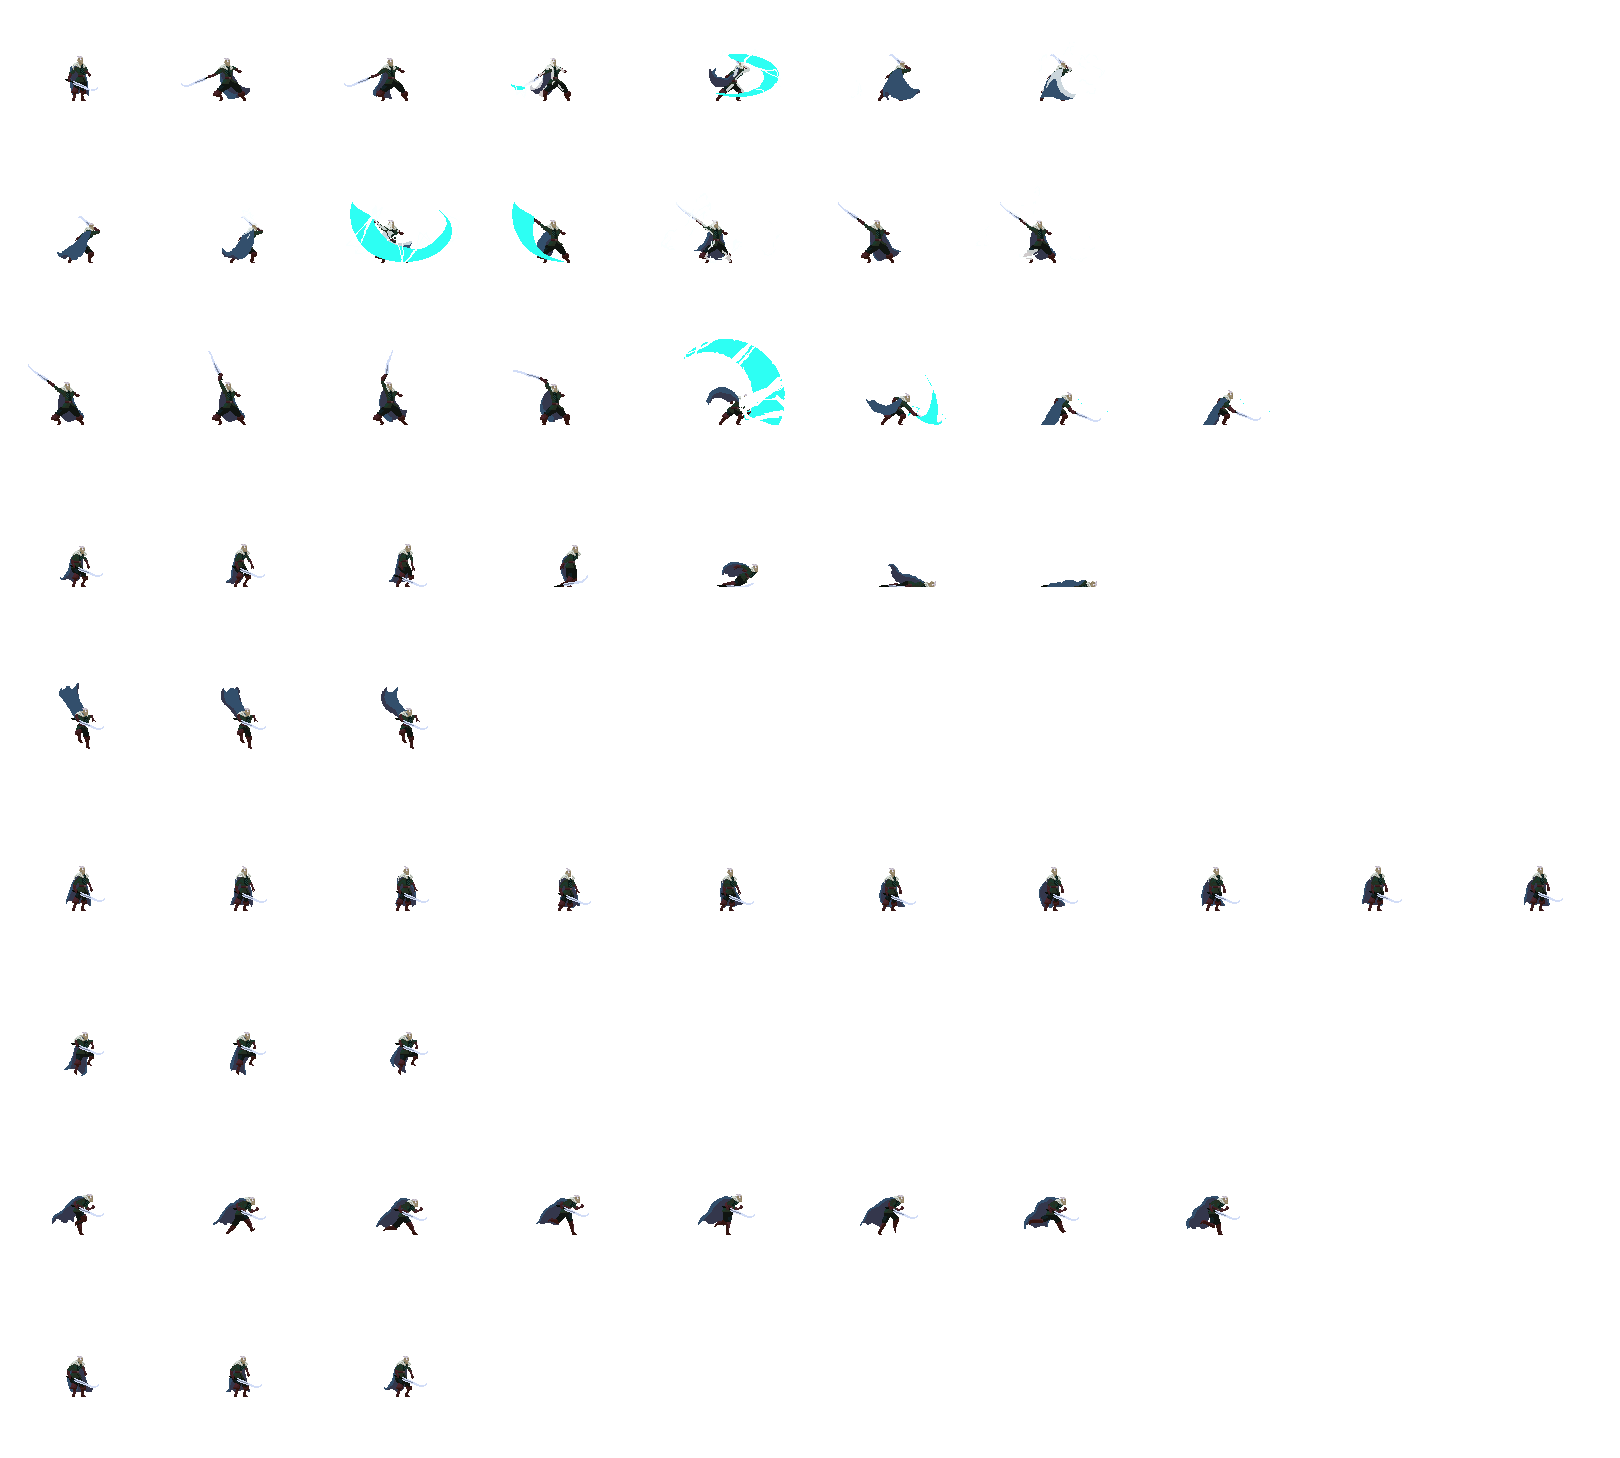
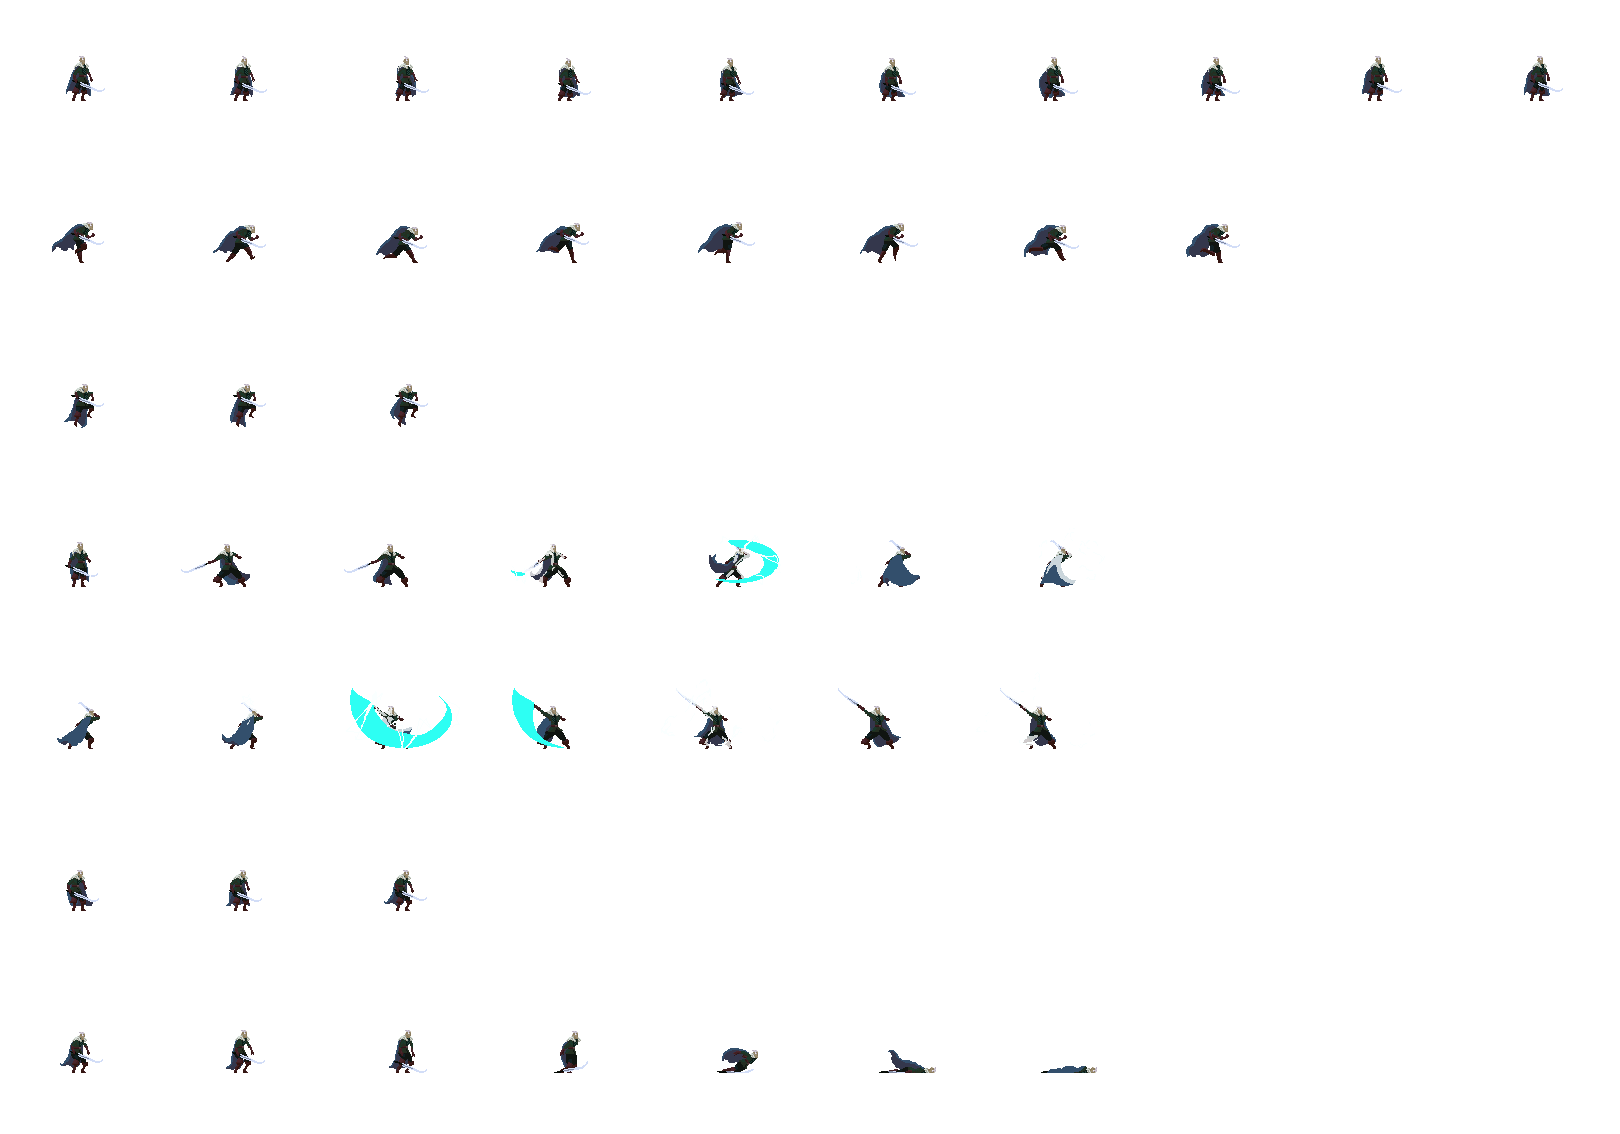
Add files via upload

diff --git a/main.py b/main.py
@@ -25,7 +25,7 @@ WARRIOR_OFFSET = [65,52]
 WARRIOR_DATA = [WARRIOR_SIZE, WARRIOR_SCALE, WARRIOR_OFFSET]
 WIZARD_SIZE = 150
 WIZARD_SCALE = 5.5
-WIZARD_OFFSET = [60, 50]
+WIZARD_OFFSET = [100, 100]
 WIZARD_DATA = [WIZARD_SIZE, WIZARD_SCALE, WIZARD_OFFSET]
 
 # load background image
@@ -38,10 +38,10 @@ martial2_sheets = pygame.image.load("assets/Fighters/Martial Hero 2/MartialHero2
 martial3_sheets = pygame.image.load("assets/Fighters/Martial Hero 3/MartialHero3.png").convert_alpha()
 
 # define number of steps in each animation
-WIZARD_ANIMATION_STEPS = [8, 5, 8, 8, 4]
-WARRIOR_ANIMATION_STEPS = [7, 7, 8, 7, 3, 10, 3, 8, 3]
-MARTIAL2_ANIMATION_STEPS = [4, 4, 7, 2, 4, 2, 8, 3]
-MARTIAL3_ANIMATION_STEPS = [7, 6, 9, 11, 3, 3, 10, 8, 3]
+WIZARD_ANIMATION_STEPS = [8, 8, 2, 8, 8, 3, 7]
+WARRIOR_ANIMATION_STEPS = [10, 8, 3, 7, 7, 3, 7]
+MARTIAL2_ANIMATION_STEPS = [4, 8, 2, 4, 4, 3, 7]
+MARTIAL3_ANIMATION_STEPS = [10, 8, 3, 7, 6, 3, 11]
 
 
 # function for drawing background
